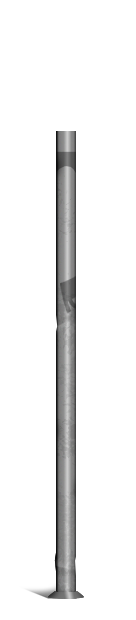
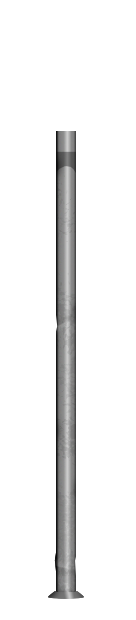
Fix: Added option to remove post it

Changed region(s): [[0.4412, 0.429, 0.5588, 0.521], [0.2353, 0.95, 0.4118, 0.9806]]

diff --git a/BondageClub/Assets/Female3DCG/Female3DCG.js b/BondageClub/Assets/Female3DCG/Female3DCG.js
@@ -4515,7 +4515,7 @@ var AssetFemale3DCG = [
 					{ Name: "PlaqueBorderClean", Priority: 54, CopyLayerColor: "PlaqueBorder", AllowModuleTypes: ["p1d0"], HasType: false },
 					{ Name: "PlaqueBolts", Priority: 54, HasType: false },
 					//Details
-					{ Name: "Postit", Priority: 54, HasType: false },
+					{ Name: "Postit", Priority: 54, HasType: false, AllowModuleTypes: ["m0"] },
 					{ Name: "Text", HasImage: false, Priority: 55 },
 					{ Name: "Paw", Priority: 54, HasType: false, AllowModuleTypes: ["s0"] },
 					{ Name: "Triskel", Priority: 54, HasType: false, CopyLayerColor: "Paw", AllowModuleTypes: ["s1"] },

diff --git a/BondageClub/Assets/Female3DCG/Female3DCGExtended.js b/BondageClub/Assets/Female3DCG/Female3DCGExtended.js
@@ -2176,6 +2176,13 @@ var AssetFemale3DCGExtended = {
 						]
 					},
 					{
+						Name: "PostIt", Key: "m",
+						Options: [ 
+						{}, //m0 - Postit
+						{}, //m1 - No PostIt
+						]
+					},
+					{
 						Name: "Txt", Key: "x",
 						Options: [{ HasSubscreen: true }],
 					},
